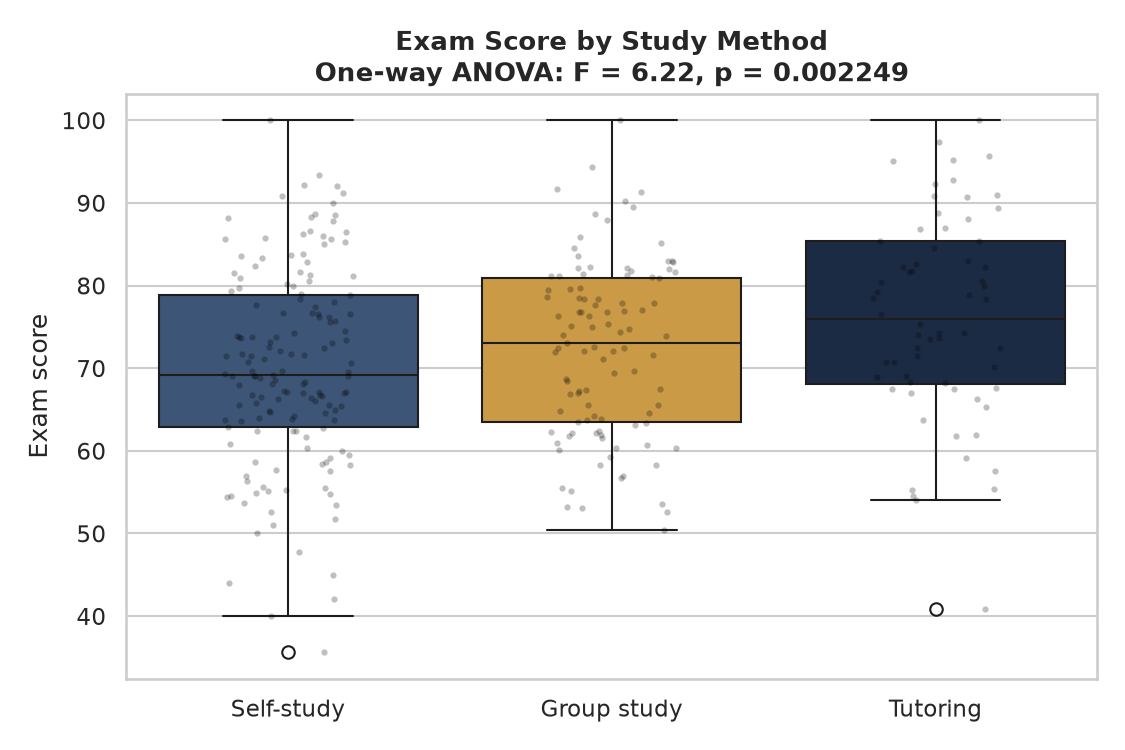
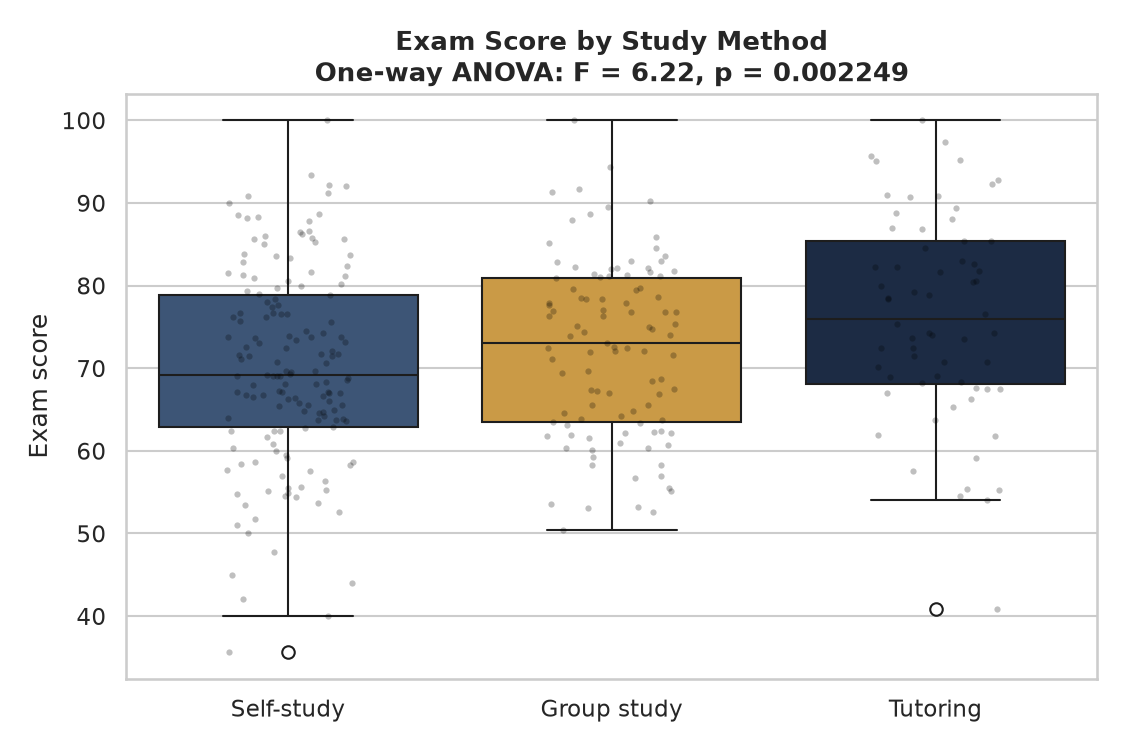
Final Phase 3 corrections: generator comment, DW/VIF framing, Levene's test
- 01_generate_dataset.py: fixed the contradictory comment above
  method_effect that still called Group study the reference category
  when the generating baseline is Self-study. Renamed TRUE_COEFS'
  study-method keys to match the analysis file's Self-study-relative
  naming (study_method_group_vs_self, study_method_tutoring_vs_self).
- Stopped presenting Durbin-Watson as evidence of independence: these
  are unordered cross-sectional records with no time axis, so it's now
  reported for completeness only, with independence attributed to the
  simulation design (each record generated separately).
- Softened the VIF interpretation: predictors sharing information
  "modestly increases coefficient uncertainty," rather than implying
  specific coefficients are compromised, with an explicit "no serious
  multicollinearity or instability" conclusion.
- Added Levene's test (p = 0.504) ahead of the one-way ANOVA, checking
  the equal-variance assumption, in both the analysis script and the
  page.
- Reframed the Group-study regression contrast as "borderline evidence"
  (p ≈ 0.050) rather than unequivocally significant, contrasted with
  Tutoring's much stronger evidence (p < .001), across the Step 4
  narrative, the ANOVA discussion, and the conclusion.
- Removed the "correctly-specified model" claim from the ground-truth
  comparison (the fitted model uses a single linear sleep term against
  the generator's threshold effect, so it's deliberately not perfectly
[…]

diff --git a/statistical-modelling-project-1-case-study.html b/statistical-modelling-project-1-case-study.html
@@ -320,7 +320,7 @@
         <tr><td>sleep_hours</td><td>+0.40</td><td>0.295</td></tr>
       </tbody>
     </table>
-    <p>Together the predictors explain much more of the variation: <strong>R² = 0.637</strong> (adjusted R² = 0.629), up from 0.403 with study hours alone. Study hours, attendance, prior GPA, and extracurricular hours are all significant with the others held constant. Group study scores significantly higher than Self-study (p = 0.050, right at the conventional cutoff), and Tutoring higher still (p &lt; .001). Sleep does not reach significance (p = 0.295): see the note on that below, since it is a more interesting result than it first looks.</p>
+    <p>Together the predictors explain much more of the variation: <strong>R² = 0.637</strong> (adjusted R² = 0.629), up from 0.403 with study hours alone. Study hours, attendance, prior GPA, and extracurricular hours are all significant with the others held constant. Group study produced borderline evidence of a difference from Self-study (estimated difference = 1.83, p &asymp; 0.050), while Tutoring showed much stronger evidence of a difference (p &lt; .001). Sleep does not reach significance (p = 0.295): see the note on that below, since it is a more interesting result than it first looks.</p>
 
     <div class="card" style="margin:20px 0;background:var(--cream-2);border-color:var(--line)">
       <h4 style="margin:0 0 10px;color:var(--navy-700);font-size:16px">A non-significant result is not proof of no effect</h4>
@@ -341,7 +341,7 @@
           <tr><td>Tutoring vs. Self-study</td><td>+5.56</td><td>+4.10</td></tr>
         </tbody>
       </table>
-      <p style="margin:10px 0 0;font-size:14.5px">study_hours_per_week, attendance_rate and prior_gpa all land within about 10% of their true value. The three predictors with larger relative gaps are Group study vs. Self-study (estimated about 24% below true), Tutoring vs. Self-study (estimated about 36% above true), and extracurricular_hours (estimated about 74% above true in magnitude). All three come from the smaller or lower-variance slices of the data: Tutoring is the smallest study-method group at 64 students, Group study the next smallest at 103, and extracurricular_hours only varies over a narrow range of a few hours a week. A reminder that even a correctly-specified model recovers noisier estimates for effects it has less information to pin down.</p>
+      <p style="margin:10px 0 0;font-size:14.5px">study_hours_per_week, attendance_rate and prior_gpa all land within about 10% of their true value. The three predictors with larger relative gaps are Group study vs. Self-study (estimated about 24% below true), Tutoring vs. Self-study (estimated about 36% above true), and extracurricular_hours (estimated about 74% above true in magnitude). These differences illustrate how sampling noise, smaller group sizes and limited predictor variation affect coefficient recovery. The comparison is approximate because the fitted sleep term does not exactly reproduce the generator's threshold structure, and exam scores are clipped to the 0&ndash;100 range.</p>
     </div>
 
     <h4 style="margin:24px 0 6px;color:var(--navy-700);font-size:16px">Multicollinearity check (VIF)</h4>
@@ -358,7 +358,7 @@
         <tr><td>extracurricular_hours</td><td>1.06</td></tr>
       </tbody>
     </table>
-    <p>All VIFs sit well below the common concern threshold of 5, but they are meaningfully above 1.0 (unlike an independently-drawn predictor set would produce), reflecting the correlation deliberately built into study_hours, attendance and prior_gpa. The coefficients above remain interpretable, but they are not fully independent of one another: some of study_hours' apparent effect, for instance, is inseparable from its overlap with attendance and prior_gpa.</p>
+    <p>All VIFs sit well below the common concern threshold of 5, but they are meaningfully above 1.0 (unlike an independently-drawn predictor set would produce), reflecting the correlation deliberately built into study_hours, attendance and prior_gpa. The predictors share some information, which modestly increases coefficient uncertainty. However, the low VIF values indicate no serious multicollinearity or instability in the fitted estimates.</p>
     <p class="demo-note">Demonstrates: multiple regression, categorical predictors via dummy variables and an explicit reference category, adjusted R², multicollinearity diagnostics (VIF) on the full design matrix, and validating a model against known ground truth.</p>
   </div>
 </section>
@@ -367,7 +367,7 @@
 <section style="padding-top:0">
   <div class="wrap">
     <h3>Step 5: Regression diagnostics</h3>
-    <p>A model's R² and p-values are only trustworthy if its assumptions roughly hold. Rather than trusting the raw-outcome normality check from Step 1, the multiple regression's own <strong>residuals</strong> were examined directly: linearity and constant variance (residuals vs. fitted, and scale-location), normality (a Q-Q plot and a Shapiro-Wilk test on the residuals themselves), independence (Durbin-Watson), and influence (Cook's distance, to check no single student dominates the fit).</p>
+    <p>A model's R² and p-values are only trustworthy if its assumptions roughly hold. Rather than trusting the raw-outcome normality check from Step 1, the multiple regression's own <strong>residuals</strong> were examined directly: linearity and constant variance (residuals vs. fitted, and scale-location), normality (a Q-Q plot and a Shapiro-Wilk test on the residuals themselves), independence, established by the simulation design in which student records are generated separately, and influence (Cook's distance, to check no single student dominates the fit).</p>
     <p class="demo-note">Demonstrates: residual diagnostics, heteroscedasticity testing (Breusch-Pagan), and influence/leverage analysis: the checks that actually validate an OLS model, as distinct from the outcome variable's own distribution.</p>
   </div>
 </section>
@@ -380,10 +380,10 @@
     <div class="stat-grid">
       <div class="stat"><div class="n">p = 0.290</div><div class="l">Shapiro-Wilk on residuals <span class="sig sig-no">Fails to reject normality</span></div></div>
       <div class="stat"><div class="n">p = 0.819</div><div class="l">Breusch-Pagan (heteroscedasticity) <span class="sig sig-no">No evidence found</span></div></div>
-      <div class="stat"><div class="n">1.91</div><div class="l">Durbin-Watson (~2 = little autocorrelation)</div></div>
+      <div class="stat"><div class="n">1.91</div><div class="l">Durbin-Watson, reported for completeness (see caption)</div></div>
       <div class="stat"><div class="n">0.031</div><div class="l">Max Cook's distance (well under the 1.0 concern level)</div></div>
     </div>
-    <p class="fig-cap">Residuals scatter evenly around zero with no funnel shape (constant variance), the Q-Q plot tracks the reference line closely with only mild tail deviation (approximately normal), Durbin-Watson sits close to 2 (little autocorrelation), and while 17 of 320 points exceed the conventional 4/n screening threshold for Cook's distance, the largest value (0.031) is far below the 1.0 level usually treated as concerning, so no single student is unduly driving the fit. On these checks, the model's assumptions hold up reasonably well.</p>
+    <p class="fig-cap">Residuals scatter evenly around zero with no funnel shape (constant variance), and the Q-Q plot tracks the reference line closely with only mild tail deviation (approximately normal). Durbin-Watson is reported for completeness (1.91, close to the no-autocorrelation value of 2), but because these are unordered cross-sectional student records with no meaningful time or sequence axis, it is not treated as evidence of independence here; independence instead follows from the simulation design, in which each student record is generated separately. While 17 of 320 points exceed the conventional 4/n screening threshold for Cook's distance, the largest value (0.031) is far below the 1.0 level usually treated as concerning, so no single student is unduly driving the fit.</p>
   </div>
 </section>
 
@@ -408,12 +408,13 @@
 
     <div class="bq">
       <h4>2 · Study method (one-way ANOVA)</h4>
-      <p>H₀: mean exam score is equal across self-study, group-study, and tutoring students. Group means: self-study 70.09 (n = 153), group study 72.33 (n = 103), tutoring 76.18 (n = 64).</p>
+      <p>H₀: mean exam score is equal across self-study, group-study, and tutoring students. Group means: self-study 70.09 (n = 153), group study 72.33 (n = 103), tutoring 76.18 (n = 64). The standard one-way ANOVA assumes roughly equal variances across groups; Levene's test did not detect unequal group variances (p = 0.504), supporting the conventional one-way ANOVA for this simulated sample.</p>
       <div class="stat-grid">
+        <div class="stat"><div class="n">p = 0.504</div><div class="l">Levene's test (equal variances) <span class="sig sig-no">Assumption holds</span></div></div>
         <div class="stat"><div class="n">F = 6.22</div><div class="l">One-way ANOVA F-statistic</div></div>
         <div class="stat"><div class="n">p = 0.0022</div><div class="l">p-value <span class="sig sig-yes">Reject H₀</span></div></div>
       </div>
-      <p>This ANOVA is statistically significant: study method is associated with a real difference in mean exam score in this dataset. That agrees with the multiple regression in Step 4, which (holding study hours, attendance, GPA, sleep and extracurricular load constant) found Group study scoring significantly higher than Self-study (p = 0.050) and Tutoring scoring higher still (p &lt; .001). The ANOVA here is unadjusted for those other predictors, so it doesn't by itself say <em>why</em> the groups differ, only that they do; the regression's dummy coefficients are the adjusted version of the same comparison. Neither test was followed by a formal post-hoc procedure (e.g. Tukey's HSD) to pin down exactly which pair of groups drives the omnibus result: a natural next step, not done here.</p>
+      <p>This ANOVA is statistically significant: study method is associated with a real difference in mean exam score in this dataset. That agrees with the multiple regression in Step 4, which (holding study hours, attendance, GPA, sleep and extracurricular load constant) found borderline evidence of Group study scoring higher than Self-study (p &asymp; 0.050) and much stronger evidence for Tutoring (p &lt; .001). The ANOVA here is unadjusted for those other predictors, so it doesn't by itself say <em>why</em> the groups differ, only that they do; the regression's dummy coefficients are the adjusted version of the same comparison. Neither test was followed by a formal post-hoc procedure (e.g. Tukey's HSD) to pin down exactly which pair of groups drives the omnibus result: a natural next step, not done here.</p>
     </div>
 
     <div class="fig">
@@ -435,7 +436,7 @@
       <li>The multiple regression's <strong>residual diagnostics</strong> (Shapiro-Wilk on residuals p = 0.290, Breusch-Pagan p = 0.819, Durbin-Watson = 1.91, max Cook's distance 0.031) show no serious violation of OLS's assumptions and no single student dominating the fit.</li>
       <li>Multicollinearity is present but modest: all <strong>VIFs sit between 1.06 and 1.45</strong>, well under the usual concern threshold of 5.</li>
       <li>Students attending ≥85% of sessions score <strong>~10 points higher on average</strong> (Welch's t-test, p &lt; .001, 95% CI [7.65, 12.35]), but that threshold is arbitrary; this demonstrates detection of the programmed attendance relationship in this simulation, not evidence about real students, and the continuous attendance coefficient from the regression (+0.28 per percentage point) is the more defensible summary.</li>
-      <li><strong>Study method shows a statistically significant effect</strong> (one-way ANOVA, p = 0.0022), consistent with the multiple regression's finding that Group study and Tutoring both score significantly higher than Self-study (p = 0.050 and p &lt; .001) once the other predictors are controlled for.</li>
+      <li><strong>Study method shows a statistically significant effect</strong> (one-way ANOVA, p = 0.0022, with Levene's test supporting the equal-variance assumption at p = 0.504), consistent with the multiple regression's finding of borderline evidence for Group study (p &asymp; 0.050) and much stronger evidence for Tutoring (p &lt; .001), both relative to Self-study, once the other predictors are controlled for.</li>
       <li><strong>sleep_hours</strong> is the reminder to keep the other bullets honest: it has a real, programmed effect on exam score, but its regression coefficient is nowhere near significant (p = 0.295). A non-significant result here means "not detected in this sample," not "no effect."</li>
     </ul>
     <p>The overall workflow (distribution check, correlation screening, simple then multiple regression with a ground-truth check, residual diagnostics, and formal hypothesis testing) is the same structure used in every later analytics project in this portfolio, just applied here to its purest, most mathematical form. Because the data is synthetic, it also carries the unusual luxury of being able to check the model's answers against the ones built into the simulation.</p>

diff --git a/statistical-modelling-project-1/code/02_analysis.py b/statistical-modelling-project-1/code/02_analysis.py
@@ -11,7 +11,7 @@ Note on the "true" coefficients: because this dataset is synthetic, the
 exact coefficients used to generate exam_score are known (see
 01_generate_dataset.py). Several sections below compare the fitted
 regression estimates to those true values, which is only possible because
-the data is simulated — it is not something you could do with real data,
+the data is simulated: it is not something you could do with real data,
 where the "true" relationship is unknown. That comparison is used here to
 show the model recovering a known signal from noisy, correlated data,
 not to claim real-world practical significance.
@@ -194,10 +194,10 @@ for param_name, true_key in compare_rows:
     log(f"  {param_name}: estimated = {est:.3f}, true = {TRUE_COEFS[true_key]:.3f}")
 
 # ---------------------------------------------------------------------------
-# 6. MULTICOLLINEARITY (VIF) — includes the study_method dummies
+# 6. MULTICOLLINEARITY (VIF): includes the study_method dummies
 # ---------------------------------------------------------------------------
 log("\n" + "=" * 70)
-log("6. MULTICOLLINEARITY — Variance Inflation Factors")
+log("6. MULTICOLLINEARITY: Variance Inflation Factors")
 log("=" * 70)
 
 method_dummies = pd.get_dummies(df["study_method"], dtype=float).drop(columns=["Self-study"])
@@ -241,8 +241,12 @@ log("-> " + ("No evidence of heteroscedasticity (p > .05)" if bp_p > 0.05
              else "Evidence of heteroscedasticity (p <= .05): variance of residuals"
                   " is not constant across fitted values"))
 
-log(f"Durbin-Watson (independence of residuals): {sm.stats.stattools.durbin_watson(resid):.3f}"
-    " (~2 indicates little autocorrelation)")
+log(f"Durbin-Watson statistic: {sm.stats.stattools.durbin_watson(resid):.3f} (~2 indicates no")
+log("first-order autocorrelation). Reported for completeness, but these are unordered")
+log("cross-sectional student records with no meaningful time or sequence axis, so this")
+log("statistic is not treated as evidence of independence here. Independence instead")
+log("follows from the simulation design, in which each student record is generated")
+log("separately.")
 
 n_obs = len(df)
 cooks_threshold = 4 / n_obs
@@ -294,7 +298,7 @@ fig.savefig(f"{IMG_DIR}/05_regression_diagnostics.png", dpi=150, bbox_inches="ti
 plt.close(fig)
 
 # ---------------------------------------------------------------------------
-# 8. HYPOTHESIS TEST — two-sample t-test on attendance split
+# 8. HYPOTHESIS TEST: two-sample t-test on attendance split
 # ---------------------------------------------------------------------------
 log("\n" + "=" * 70)
 log("8. TWO-SAMPLE T-TEST: attendance >= 85% vs < 85%")
@@ -338,13 +342,27 @@ log(f"Mean difference = {mean_diff:.2f} points, Welch-Satterthwaite df = {welch_
     f"t* = {critical_t:.3f}, 95% CI = [{ci_low:.2f}, {ci_high:.2f}]")
 
 # ---------------------------------------------------------------------------
-# 9. ONE-WAY ANOVA — exam_score by study_method
+# 9. ONE-WAY ANOVA: exam_score by study_method
 # ---------------------------------------------------------------------------
 log("\n" + "=" * 70)
 log("9. ONE-WAY ANOVA: exam_score by study_method")
 log("=" * 70)
 
 groups = [g["exam_score"].values for _, g in df.groupby("study_method")]
+
+# The standard one-way ANOVA assumes roughly equal variances across groups;
+# check that with Levene's test (median-centered, robust to non-normality)
+# before trusting the F-test below.
+levene_stat, levene_p = stats.levene(*groups, center="median")
+log(
+    f"Levene's test: statistic = {levene_stat:.3f}, "
+    f"p = {levene_p:.4f}"
+)
+log("-> " + ("No evidence of unequal group variances (p > .05): the equal-variance "
+             "assumption behind the ANOVA below is reasonable." if levene_p > 0.05
+             else "Evidence of unequal group variances (p <= .05): a Welch ANOVA would "
+                  "be more appropriate than the standard one-way ANOVA below."))
+
 f_stat, anova_p = stats.f_oneway(*groups)
 log(f"F-statistic = {f_stat:.3f}, p = {anova_p:.4g}")
 log("-> " + ("At least one group mean differs significantly (p < .05)" if anova_p < 0.05

diff --git a/statistical-modelling-project-1/code/01_generate_dataset.py b/statistical-modelling-project-1/code/01_generate_dataset.py
@@ -85,8 +85,8 @@ study_method = rng.choice(
 )
 
 # Small, deliberate effect of study method baked into the score below.
-# Reference category is "Group study" (dropped by patsy/pandas as the first
-# level alphabetically), so these effects are relative to Group study.
+# Self-study is the generating baseline. Group study receives +2.4
+# points and Tutoring receives +4.1 points relative to Self-study.
 method_effect = pd.Series(study_method).map(
     {"Self-study": 0.0, "Group study": 2.4, "Tutoring": 4.1}
 ).to_numpy()
@@ -96,7 +96,7 @@ method_effect = pd.Series(study_method).map(
 # ---------------------------------------------------------------------------
 # A linear combination of the predictors above, plus a mild penalty for
 # short sleep (below ~6 hours) and irreducible noise, then clipped to 0-100.
-# These are the TRUE generating coefficients — the regression later in the
+# These are the TRUE generating coefficients: the regression later in the
 # analysis recovers estimates of these from noisy, correlated data.
 
 TRUE_COEFS = {
@@ -106,8 +106,8 @@ TRUE_COEFS = {
     "prior_gpa": 8.5,
     "extracurricular_hours": -0.30,
     "sleep_penalty_per_hour_below_6": -1.8,
-    "study_method_self_study_vs_group": 0.0 - 2.4,
-    "study_method_tutoring_vs_group": 4.1 - 2.4,
+    "study_method_group_vs_self": 2.4,
+    "study_method_tutoring_vs_self": 4.1,
     "noise_sd": 7.5,
 }
 
